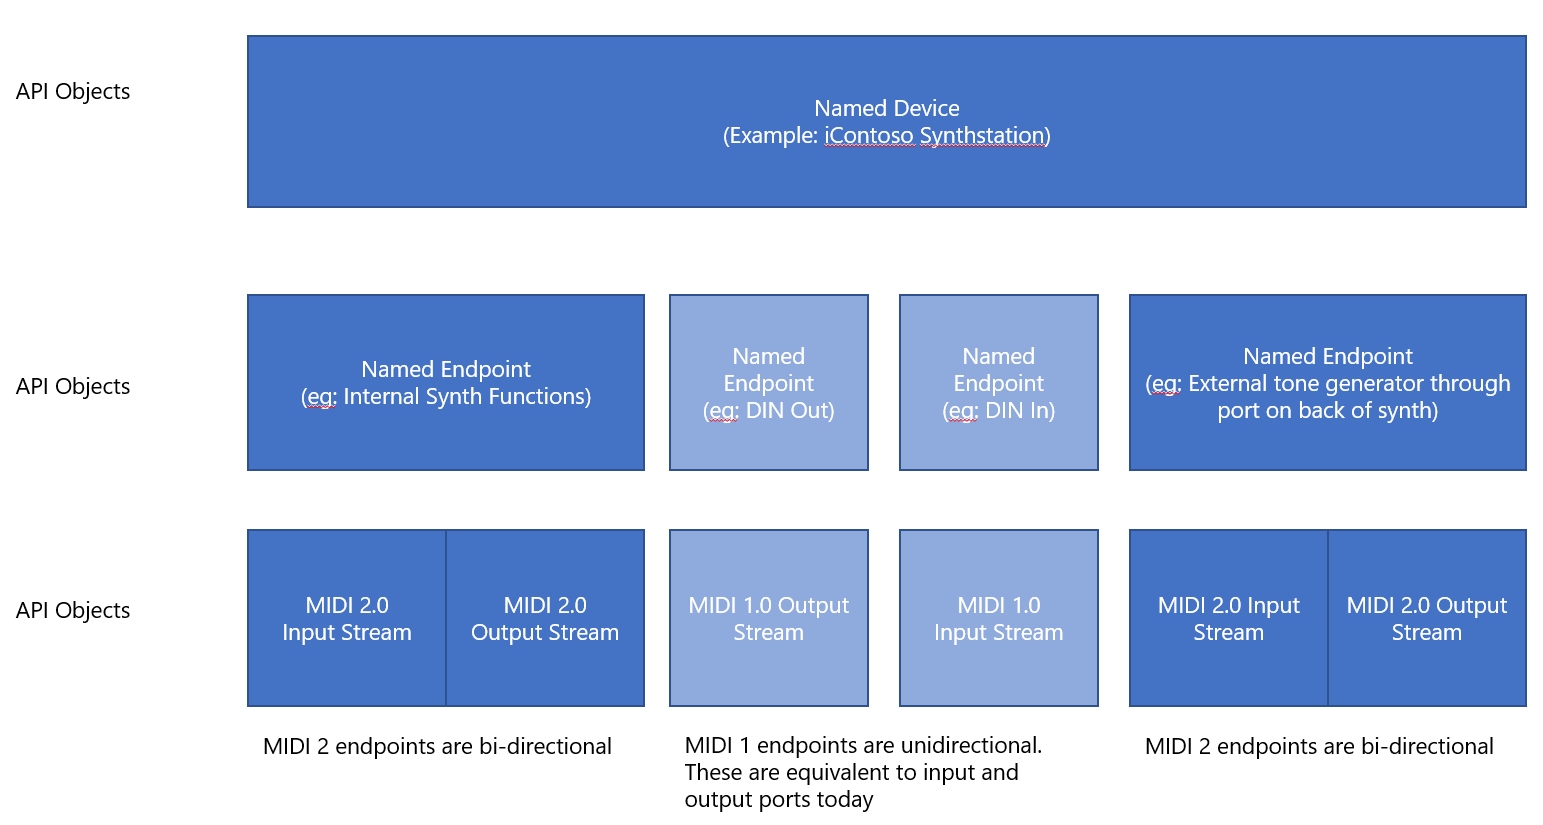
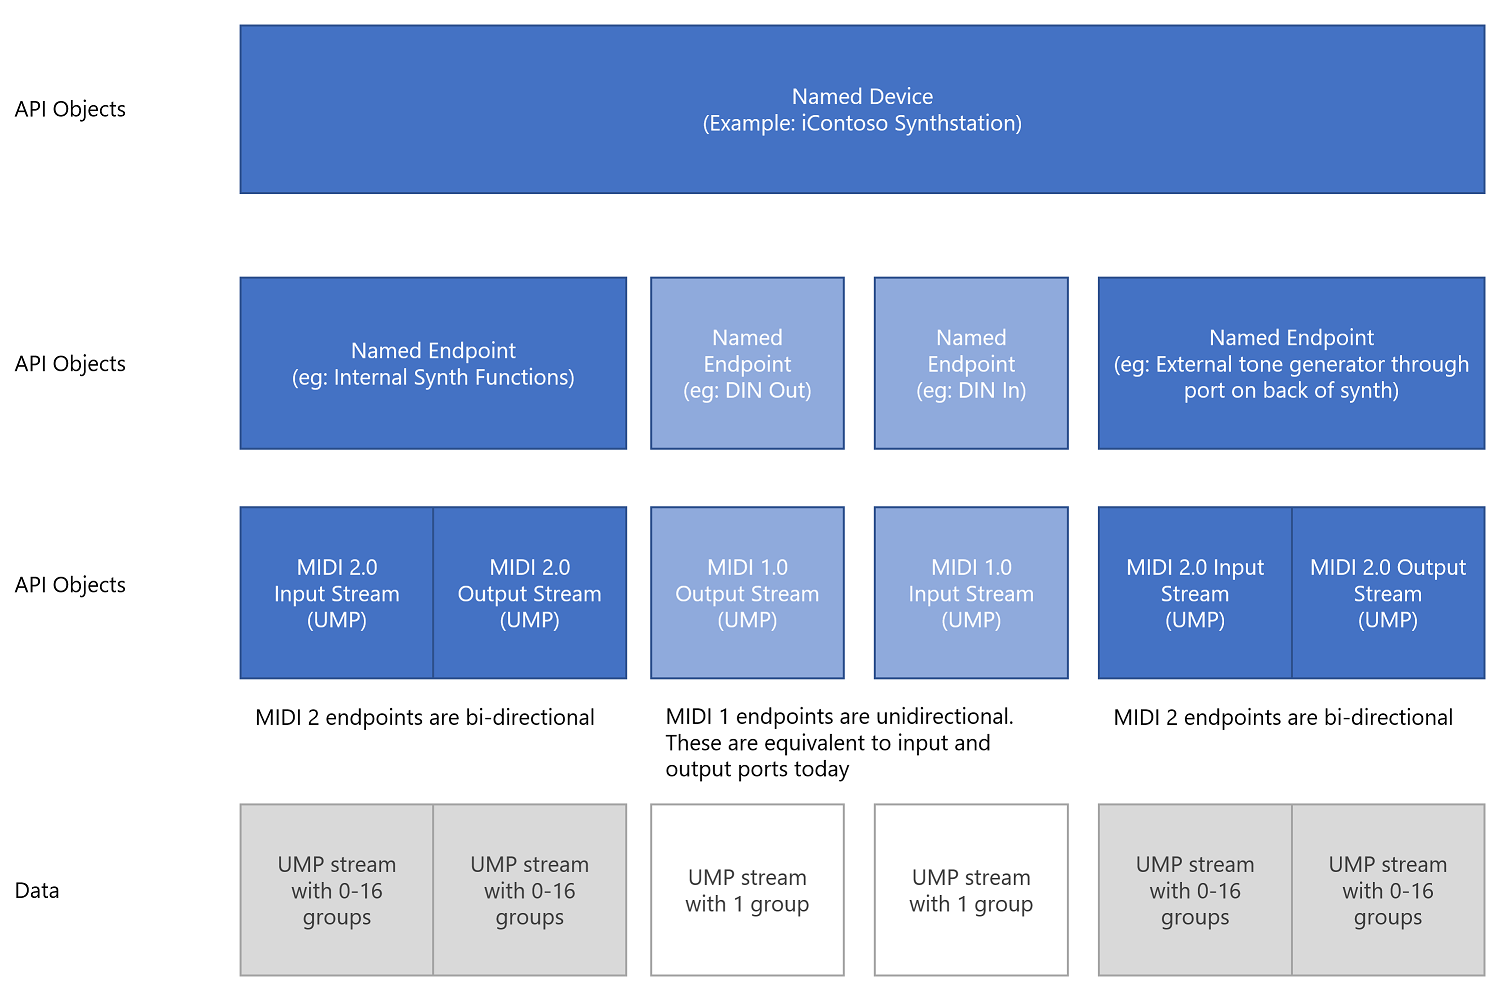
updated API ideas

diff --git a/api/MIDI API Ideas.md b/api/MIDI API Ideas.md
@@ -14,10 +14,10 @@ These are not final designs, but rather are brainstorming design ideas. All code
   * Only endpoints need to be opened, and that's really only to wire up handling for incoming messages
   * Device enumeration is detailed, flexible, and supports our device/transport plugin approach
 * The user is in control
-    * The user can override certain settings for endpoints, like disabling protocol negotiation, for example, and also setting the name to whatever they want, so that they are in control of the setup
-    * We will implement and require features which give the user more visibility into the state of MIDI on the machine, even if those features aren't of obvious use to the applications themselves.
-    * The user must explicitly enable any plugins
-    * The configuration (setup) files are human-readable JSON, and easily accessible for viewing, editing, copying, or backup
+  * The user can override certain settings for endpoints, like disabling protocol negotiation, for example, and also setting the name to whatever they want, so that they are in control of the setup
+  * We will implement and require features which give the user more visibility into the state of MIDI on the machine, even if those features aren't of obvious use to the applications themselves.
+  * The user must explicitly enable any plugins
+  * The configuration (setup) files are human-readable JSON, and easily accessible for viewing, editing, copying, or backup
 * Unless otherwise stated, all API-level Ids are GUIDs
 * All end-user accessible device, endpoint, etc. names support full unicode
 * All API-consumed or delivered messages will be packaged in UMP, including MIDI 1.0
@@ -116,6 +116,8 @@ at the session level? This is a recurring theme throughout where some things may
 easier to manage if centralized, but that also means any given program ends up with either
 a lot of parameter passing, or globals they may not want. It also makes cleaning up somewhat
 more difficult when objects go out of scope.
+
+TODO: Should endpoints in the API be 1:1 with group terminals in the driver? We go back and forth on this, but the USB MIDI Spec would seem to indicate that we really do need to in order to make sense of the devices and endpoints, and to surface them to applications which will want to address specific ports on the devices. But the groups are also contained in the UMP, which would be redundant if that were the case and would require the API to process each packet and route it to the correct API object. (see Section 3 of USB MIDI Class Driver spec)
 
 ### Receive messages at the session level
 
